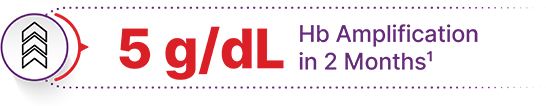
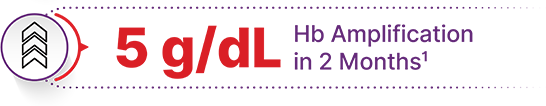
Update

Changed region(s): [[0.1868, 0.2264, 0.8095, 0.7642], [0.5293, 0.2264, 0.9029, 0.4528]]

diff --git a/global.js b/global.js
@@ -254,19 +254,19 @@ switch(pg_id){
 	content='<link rel="stylesheet" type="text/css" href="slide1/slide1.css" media="screen"/><div class="s1"><img src="slide1/s1.png" width="1080" height="810" alt=""/></div><div class="s2"><img src="slide1/s2.png"/></div><div class="s3"><img src="slide1/s3.png"/></div><div class="s4"><img src="slide1/s4.png"/></div><div class="s5"><img src="slide1/s5.png"/></div><div class="s6"><img src="slide1/s6.png"/></div><div class="s7"><img src="slide1/s7.png"/></div><div class="s8"><img src="slide1/s8.png"/></div>';
 	break;
 	case 2:
-	content='<link rel="stylesheet" type="text/css" href="slide2/slide2.css" media="screen"/><div class="s1"><img src="slide2/s1.png" width="1080" height="810" alt=""/></div><div class="s2"><img src="slide2/s2.png"/></div><div class="s3"><img src="slide2/s3.png"/></div><div class="s4"><img src="slide2/s4.png"/></div><div class="s5"><img src="slide2/s5.png"/></div><div class="s6"><img src="slide2/s6.png"/></div><div class="s7"><img src="slide2/s7.png"/></div><div class="s8"><img src="slide2/s8.png"/></div><div class="s9"><img src="slide2/s9.png"/></div><div class="s10"><img src="slide2/s10.png"/></div><div class="s11"><img src="slide2/s11.png"/></div><div class="s12"><img src="slide2/s12.png"/></div>';
+	content='<link rel="stylesheet" type="text/css" href="slide2/slide2.css" media="screen"/><div class="s1"><img src="slide2/s1.png" width="1080" height="810" alt=""/></div><div class="s2"><img src="slide2/s2.png"/></div><div class="s3"><img src="slide2/s3.png"/></div><div class="s4"><img src="slide2/s4.gif"/></div><div class="s5"><img src="slide2/s5.png"/></div><div class="s6"><img src="slide2/s6.gif"/></div><div class="s7"><img src="slide2/s7.png"/></div><div class="s8"><img src="slide2/s8.png"/></div><div class="s9"><img src="slide2/s9.png"/></div><div class="s10"><img src="slide2/s10.png"/></div><div class="s11"><img src="slide2/s11.png"/></div><div class="s12"><img src="slide2/s12.png"/></div>';
 	break;
 	case 3:
-	content='<link rel="stylesheet" type="text/css" href="slide3/slide3.css" media="screen"/><div class="s1"><img src="slide3/s1.png" width="1080" height="810" alt=""/></div><div class="s2"><img src="slide3/s2.png"/></div><div class="s3"><img src="slide3/s3.png"/></div><div class="s4"><img src="slide3/s4.png"/></div><div class="s5"><img src="slide3/s5.png"/></div><div class="s6"><img src="slide3/s6.png"/></div><div class="s7"><img src="slide3/s7.png"/></div><div class="s8"><img src="slide3/s8.png"/></div>';
+	content='<link rel="stylesheet" type="text/css" href="slide3/slide3.css" media="screen"/><div class="s1"><img src="slide3/s1.png" width="1080" height="810" alt=""/></div><div class="s2"><img src="slide3/s2.gif" width="390"/></div><div class="s3"><img src="slide3/s3.gif" width="110"/></div><div class="s4"><img src="slide3/s4.png"/></div><div class="s5"><img src="slide3/s5.png"/></div><div class="s6"><img src="slide3/s6.png"/></div><div class="s7"><img src="slide3/s7.png"/></div><div class="s8"><img src="slide3/s8.png"/></div>';
 	break;
 	case 4:
-	content='<link rel="stylesheet" type="text/css" href="slide4/slide4.css" media="screen"/><div class="s1"><img src="slide4/s1.png" width="1080" height="810" alt=""/></div><div class="s2"><img src="slide4/s2.png"/></div><div class="s3"><img src="slide4/s3.png"/></div><div class="s4"><img src="slide4/s4.png"/></div><div class="s5"><img src="slide4/s5.png"/></div><div class="s6"><img src="slide4/s6.png"/></div><div class="s7"><img src="slide4/s7.png"/></div><div class="s8"><img src="slide4/s8.png"/></div><div class="s9"><img src="slide4/s9.png"/></div><div class="s10"><img src="slide4/s10.png"/></div><div class="s11"><img src="slide4/s11.png"/></div>';
+	content='<link rel="stylesheet" type="text/css" href="slide4/slide4.css" media="screen"/><div class="s1"><img src="slide4/s1.png" width="1080" height="810" alt=""/></div><div class="s2"><img src="slide4/s2.gif" width="390"/></div><div class="s3"><img src="slide4/s3.gif" width="110"/></div><div class="s4"><img src="slide4/s4.png"/></div><div class="s5"><img src="slide4/s5.png"/></div><div class="s6"><img src="slide4/s6.png"/></div><div class="s7"><img src="slide4/s7.png"/></div><div class="s8"><img src="slide4/s8.png"/></div><div class="s9"><img src="slide4/s9.png"/></div><div class="s10"><img src="slide4/s10.png"/></div><div class="s11"><img src="slide4/s11.png"/></div>';
 	break;
 	case 5:
-	content='<link rel="stylesheet" type="text/css" href="slide5/slide5.css" media="screen"/><div class="s1"><img src="slide5/s1.png" width="1080" height="810" alt=""/></div><div class="s2"><img src="slide5/s2.png"/></div><div class="s3"><img src="slide5/s3.png"/></div><div class="s4"><img src="slide5/s4.png"/></div><div class="s5"><img src="slide5/s5.png"/></div><div class="s6"><img src="slide5/s6.png"/></div><div class="s7"><img src="slide5/s7.png"/></div>';
+	content='<link rel="stylesheet" type="text/css" href="slide5/slide5.css" media="screen"/><div class="s1"><img src="slide5/s1.png" width="1080" height="810" alt=""/></div><div class="s2"><img src="slide5/s2.gif" width="390"/></div><div class="s3"><img src="slide5/s3.gif" width="110"/></div><div class="s4"><img src="slide5/s4.png"/></div><div class="s5"><img src="slide5/s5.png"/></div><div class="s6"><img src="slide5/s6.png"/></div><div class="s7"><img src="slide5/s7.png"/></div><div class="s8"><img src="slide5/s8.png"/></div>';
 	break;
 	case 6:
-	content='<link rel="stylesheet" type="text/css" href="slide6/slide6.css" media="screen"/><div class="s1"><img src="slide6/s1.png" width="1080" height="810" alt=""/></div><div class="s2"><img src="slide6/s2.png"/></div><div class="s3"><img src="slide6/s3.png"/></div><div class="s4"><img src="slide6/s4.png"/></div><div class="s5"><img src="slide6/s5.png"/></div><div class="s6"><img src="slide6/s6.png"/></div><div class="s7"><img src="slide6/s7.png"/></div><div class="s8"><img src="slide6/s8.png"/></div>';
+	content='<link rel="stylesheet" type="text/css" href="slide6/slide6.css" media="screen"/><div class="s1"><img src="slide6/s1.png" width="1080" height="810" alt=""/></div><div class="s2"><img src="slide6/s2.gif" width="390"/></div><div class="s3"><img src="slide6/s3.gif" width="110"/></div><div class="s4"><img src="slide6/s4.png"/></div><div class="s5"><img src="slide6/s5.png"/></div><div class="s6"><img src="slide6/s6.png"/></div><div class="s7"><img src="slide6/s7.png"/></div><div class="s8"><img src="slide6/s8.png"/></div><div class="s9"><img src="slide6/s9.png"/></div>';
 	break;
 }
 

diff --git a/slide2/slide2.css b/slide2/slide2.css
@@ -53,7 +53,7 @@
   width: 88px;
   height: 86px;
 	animation: zoomIn 0.5s;
-	animation-delay: 1.2s;
+	animation-delay: 1s;
 	animation-fill-mode: both;
 	transform-origin: bottom;
 	z-index: 5;
@@ -66,7 +66,7 @@
   width: 148px;
   height: 148px;
 	animation: zoomIn 0.5s;
-	animation-delay: 1.5s;
+	animation-delay: 1.2s;
 	animation-fill-mode: both;
 	z-index: 5;
 }
@@ -78,7 +78,7 @@
   width: 467px;
   height: 52px;
 	animation: fadeInUp 0.5s;
-	animation-delay: 1.5s;
+	animation-delay: 1.2s;
 	animation-fill-mode: both;
 	z-index: 5;
 }
@@ -101,9 +101,10 @@
   top: 725px;
   width: 250px;
   height: 33px;
-	animation: flashLongOff 2s infinite;
+	animation: zoomIn 0.5s;
 	animation-delay: 2.3s;
 	animation-fill-mode: both;
+	transform-origin: bottom left;
 	z-index: 5;
 }
 
@@ -116,6 +117,7 @@
 	animation: flashLongOff 0.2s infinite;
 	animation-delay: 2.5s;
 	animation-fill-mode: both;
+	display: none;
 	z-index: 5;
 }
 
@@ -128,6 +130,7 @@
 	animation: flashLongOff 0.2s infinite;
 	animation-delay: 2.8s;
 	animation-fill-mode: both;
+	display: none;
 	z-index: 5;
 }
 
@@ -140,6 +143,7 @@
 	animation: pulseBig 1s infinite;
 	animation-delay: 3s;
 	animation-fill-mode: both;
+	display: none;
 	z-index: 5;
 }
 

diff --git a/slide3/slide3.css b/slide3/slide3.css
@@ -29,7 +29,7 @@
   width: 110px;
   height: 110px;
 	animation: zoomIn 0.3s;
-	animation-delay: 0.5s;
+	animation-delay: 0.2s;
 	animation-fill-mode: both;
 	z-index: 5;
 }
@@ -40,9 +40,10 @@
   top: 288px;
   width: 186px;
   height: 25px;
-	animation: flashLongOff 2s infinite;
+	animation: zoomIn 0.5s;
 	animation-delay: 0.5s;
 	animation-fill-mode: both;
+	transform-origin: bottom left;
 	z-index: 5;
 }
 
@@ -53,7 +54,7 @@
   width: 665px;
   height: 48px;
 	animation: fadeInUp 0.5s;
-	animation-delay: 1s;
+	animation-delay: 1.2s;
 	animation-fill-mode: both;
 	z-index: 5;
 }
@@ -65,7 +66,7 @@
   width: 496px;
   height: 92px;
 	animation: zoomIn 0.5s;
-	animation-delay: 1.6s;
+	animation-delay: 1.7s;
 	animation-fill-mode: both;
 	transform-origin: left;
 	z-index: 5;
@@ -78,7 +79,7 @@
   width: 497px;
   height: 105px;
 	animation: zoomIn 0.5s;
-	animation-delay: 1.8s;
+	animation-delay: 1.9s;
 	animation-fill-mode: both;
 	transform-origin: left;
 	z-index: 5;
@@ -91,7 +92,7 @@
   width: 496px;
   height: 94px;
 	animation: zoomIn 0.5s;
-	animation-delay: 2s;
+	animation-delay: 2.1s;
 	animation-fill-mode: both;
 	transform-origin: left;
 	z-index: 5;

diff --git a/slide4/slide4.css b/slide4/slide4.css
@@ -29,7 +29,7 @@
   width: 110px;
   height: 110px;
 	animation: zoomIn 0.3s;
-	animation-delay: 0.5s;
+	animation-delay: 0.2s;
 	animation-fill-mode: both;
 	z-index: 5;
 }
@@ -40,9 +40,10 @@
   top: 288px;
   width: 186px;
   height: 25px;
-	animation: flashLongOff 2s infinite;
+	animation: zoomIn 0.5s;
 	animation-delay: 0.5s;
 	animation-fill-mode: both;
+	transform-origin: bottom left;
 	z-index: 5;
 }
 
@@ -52,9 +53,10 @@
   top: 340px;
   width: 284px;
   height: 118px;
-	animation: fadeInLeft 0.5s;
-	animation-delay: 1s;
+	animation: zoomIn 0.5s;
+	animation-delay: 1.5s;
 	animation-fill-mode: both;
+	transform-origin: left;
 	z-index: 5;
 }
 
@@ -65,7 +67,7 @@
   width: 163px;
   height: 126px;
 	animation: zoomIn 0.5s;
-	animation-delay: 1.5s;
+	animation-delay: 1s;
 	animation-fill-mode: both;
 	z-index: 8;
 }
@@ -77,7 +79,7 @@
   width: 163px;
   height: 126px;
 	animation: flashLongOff 2s infinite;
-	animation-delay: 2.5s;
+	animation-delay: 1.5s;
 	animation-fill-mode: both;
 	z-index: 10;
 }

diff --git a/slide6/slide6.css b/slide6/slide6.css
@@ -29,7 +29,7 @@
   width: 110px;
   height: 110px;
 	animation: zoomIn 0.3s;
-	animation-delay: 0.5s;
+	animation-delay: 0.2s;
 	animation-fill-mode: both;
 	z-index: 5;
 }
@@ -40,9 +40,10 @@
   top: 288px;
   width: 186px;
   height: 25px;
-	animation: flashLongOff 2s infinite;
+	animation: zoomIn 0.5s;
 	animation-delay: 0.5s;
 	animation-fill-mode: both;
+	transform-origin: bottom left;
 	z-index: 5;
 }
 
@@ -95,6 +96,18 @@
 	animation-delay: 1.8s;
 	animation-fill-mode: both;
 	transform-origin: left;
+	z-index: 10;
+}
+
+.s9 {
+	position: absolute;
+  left: 622px;
+  top: 393px;
+  width: 322px;
+  height: 138px;
+	animation: flashLongOff 1s infinite;
+	animation-delay: 2.3s;
+	animation-fill-mode: both;
 	z-index: 10;
 }
 

diff --git a/slide5/slide5.css b/slide5/slide5.css
@@ -29,7 +29,7 @@
   width: 110px;
   height: 110px;
 	animation: zoomIn 0.3s;
-	animation-delay: 0.5s;
+	animation-delay: 0.2s;
 	animation-fill-mode: both;
 	z-index: 5;
 }
@@ -40,9 +40,10 @@
   top: 288px;
   width: 186px;
   height: 25px;
-	animation: flashLongOff 2s infinite;
+	animation: zoomIn 0.5s;
 	animation-delay: 0.5s;
 	animation-fill-mode: both;
+	transform-origin: bottom left;
 	z-index: 5;
 }
 
@@ -82,6 +83,18 @@
 	animation-delay: 1.6s;
 	animation-fill-mode: both;
 	transform-origin: left;
+	z-index: 10;
+}
+
+.s8 {
+	position: absolute;
+  left: 596px;
+  top: 498px;
+  width: 165px;
+  height: 54px;
+	animation: flashLongOff 1s infinite;
+	animation-delay: 2s;
+	animation-fill-mode: both;
 	z-index: 10;
 }
 

diff --git a/slide1/slide1.css b/slide1/slide1.css
@@ -52,9 +52,10 @@
   top: 686px;
   width: 507px;
   height: 68px;
-	animation: flashLongOff 2s infinite;
+	animation: zoomIn 0.5s;
 	animation-delay: 1.3s;
 	animation-fill-mode: both;
+	transform-origin: bottom left;
 	z-index: 5;
 }
 
